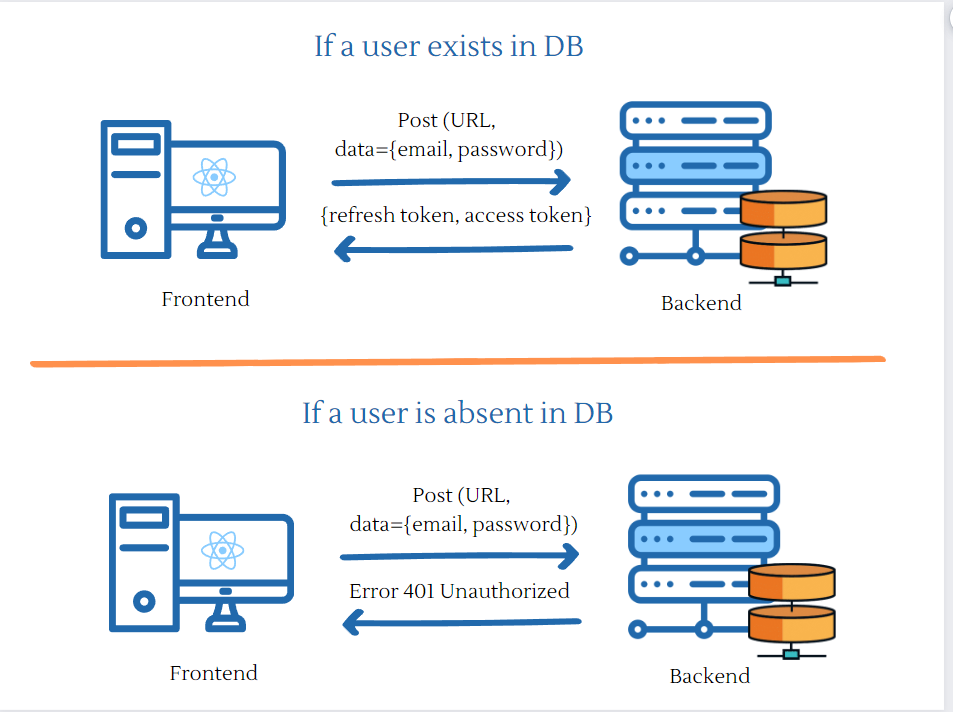
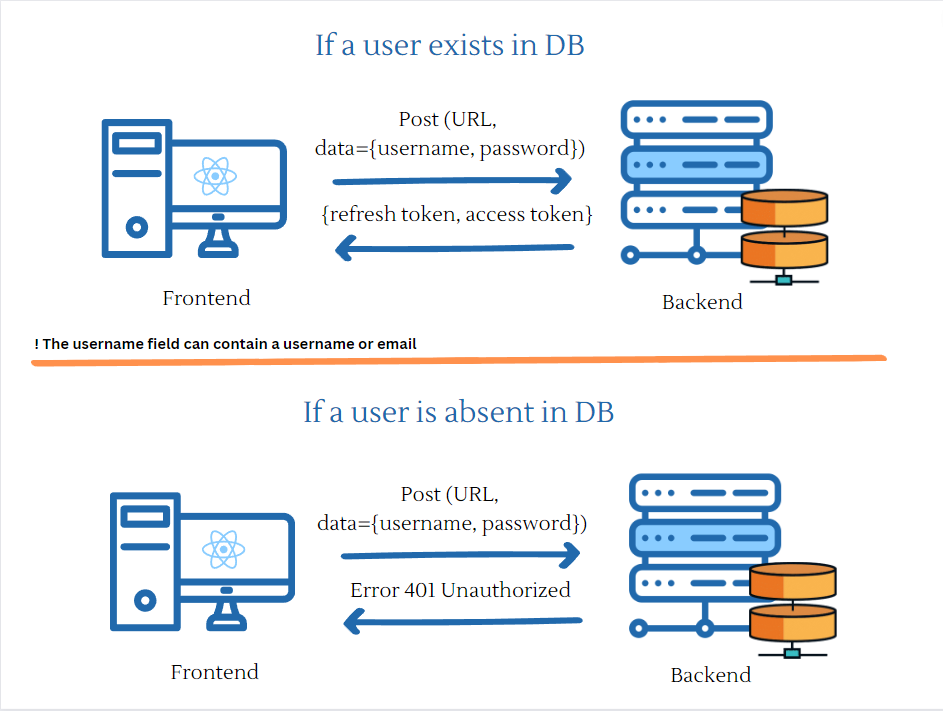
Rewrote authentication, added documentation

diff --git a/backend/accounts/admin.py b/backend/accounts/admin.py
@@ -2,37 +2,6 @@ from django.contrib import admin
 
 from .models import EmailConfirmationToken, Profile, User
 
-# class CustomUserAdmin(UserAdmin):
-#     """Define admin model for custom User model without username field.
-#     Without this, the admin panel will look bad"""
-#
-#     fieldsets = (
-#         (None, {"fields": ("username", "email", "password", "is_email_confirmed")}),
-#         # (_("Personal info"), {"fields": ("first_name", "last_name")}),
-#         (_("Permissions"), {"fields": ("is_active", "is_staff", "is_superuser", "groups", "user_permissions")}),
-#         (_("Important dates"), {"fields": ("last_login", "date_joined")}),
-#     )
-#     add_fieldsets = (
-#         (
-#             None,
-#             {
-#                 "classes": ("wide",),
-#                 "fields": ("username", "email", "password1", "password2"),
-#             },
-#         ),
-#     )
-#     list_display = ("username", "email", "first_name", "is_email_confirmed", "last_name", "is_staff")
-#     search_fields = ("email",)
-#     ordering = ("email",)
-
-
-class ProfileInline(admin.StackedInline):
-    model = Profile
-    can_delete = False
-    verbose_name_plural = "Profile"
-
-
-# admin.site.register(get_user_model(), CustomUserAdmin)
 admin.site.register(User)
 admin.site.register(EmailConfirmationToken)
 admin.site.register(Profile)

diff --git a/backend/accounts/authentication_backend.py b/backend/accounts/authentication_backend.py
@@ -1,0 +1,42 @@
+from django.db.models import Q
+
+from .models import User
+
+
+class AuthBackend(object):
+    """
+    Custom authentication backend.
+    Allows users to login by email or username.
+    """
+
+    supports_object_permissions = True
+    supports_anonymous_user = False
+    # supports_inactive_user = False
+
+    def get_user(self, user_id):
+        """
+        Overrides the get_user method to allow users to login by email or username.
+        """
+
+        try:
+            return User.objects.get(pk=user_id)
+        except User.DoesNotExist:
+            return None
+
+    def authenticate(self, request, username, password):
+        """
+        Overrides the authenticate method to allow users to login by email or username.
+        """
+
+        try:
+            user = User.objects.get(Q(username=username) | Q(email=username))
+            print(user)
+
+        except User.DoesNotExist:
+            return None
+
+        if user.check_password(password):
+            return user
+
+        else:
+            return None

diff --git a/backend/accounts/models.py b/backend/accounts/models.py
@@ -38,7 +38,7 @@ class User(AbstractUser, PermissionsMixin):
     objects = UserManager()
 
     # for default authentication
-    USERNAME_FIELD = "email"
+    USERNAME_FIELD = "username"
     REQUIRED_FIELDS = []
 
     class Meta:
@@ -74,7 +74,7 @@ class Profile(models.Model):
     """User profile"""
 
     user = models.OneToOneField(settings.AUTH_USER_MODEL, on_delete=models.CASCADE)
-    avatar = models.ImageField(upload_to=get_image_filename, blank=True)
+    avatar = models.ImageField(upload_to=get_image_filename, null=True)
 
     def __str__(self):
         return self.user.email

diff --git a/backend/accounts/migrations/0002_alter_profile_avatar.py b/backend/accounts/migrations/0002_alter_profile_avatar.py
@@ -1,0 +1,18 @@
+# Generated by Django 4.2.2 on 2023-07-01 15:26
+
+import accounts.models
+from django.db import migrations, models
+
+
+class Migration(migrations.Migration):
+    dependencies = [
+        ("accounts", "0001_initial"),
+    ]
+
+    operations = [
+        migrations.AlterField(
+            model_name="profile",
+            name="avatar",
+            field=models.ImageField(null=True, upload_to=accounts.models.get_image_filename),
+        ),
+    ]

diff --git a/backend/config/settings.py b/backend/config/settings.py
@@ -36,6 +36,7 @@ ALLOWED_HOSTS = ["*"]
 CORS_ORIGIN_ALLOW_ALL = True
 
 AUTH_USER_MODEL = "accounts.User"
+AUTHENTICATION_BACKENDS = ("accounts.authentication_backend.AuthBackend",)
 
 # Application definition
 

diff --git a/backend/accounts/apps.py b/backend/accounts/apps.py
@@ -6,4 +6,4 @@ class AccountsConfig(AppConfig):
     name = "accounts"
 
     def ready(self):
-        pass
+        import accounts.signals

diff --git a/doc/Accounts.md b/doc/Accounts.md
@@ -8,8 +8,9 @@
 
     ```
     URL = "https://prod-chat.duckdns.org/api/register/"
-    data = {"email": "user@gmail.com",
-            "password": "UserPassword"}
+    data = {"username": "userName",
+            "email": "user@gmail.com",
+            "password": "userPassword"}
     response = request.post(URL, data)
     ```
 
@@ -19,9 +20,56 @@
 
         ```
         {
-            "id": 2,
+            "username": "userName",
             "email": "user@gmail.com",
             "is_email_confirmed": false
+        }
+        ```
+
+-   Unsuccessful responses:
+    -   Status code: 400 Bad Request.
+    -   Response body:
+
+        ```
+        {
+            "error": [
+                "This password is too short. It must contain at least 8 characters.",
+                "This password is too common.",
+                "This password is entirely numeric."
+            ]
+        }
+        ```
+
+        ```
+        {
+            "username": [
+                "user with this login already exists."
+            ],
+            "email": [
+                "user with this email already exists."
+            ]
+        }
+        ```
+
+        ```
+        {
+            "username": [
+                "This field is required."
+            ],
+            "email": [
+                "This field is required."
+            ],
+            "password": [
+                "This field is required."
+            ]
+        }
+        ```
+
+        ```
+        {
+            "email": [
+                "Enter a valid email address."
+            ]
         }
         ```
 
@@ -35,12 +83,20 @@
 ![img_1.png](img/login.png)
 
 -   URL: https://prod-chat.duckdns.org/api/token/
--   Request: Post(URL, {email, password}).  
+-   Request: Post(URL, {username, password}).  
+    __The username field can contain a username or email__.  
     Request doesn't require any token in headers.
 
     ```
     URL = "https://prod-chat.duckdns.org/api/token/"
-    data = {"email": "user@gmail.com",
+    data = {"username": "user@gmail.com",
+            "password": "UserPassword"}
+    response = request.post(URL, data)
+    ```
+
+    ```
+    URL = "https://prod-chat.duckdns.org/api/token/"
+    data = {"username": "userName",
             "password": "UserPassword"}
     response = request.post(URL, data)
     ```
@@ -56,6 +112,16 @@
         }
         ```
 
+-   Unsuccessful response:
+    -   Status code: 401 Unauthorized.
+    -   Response body:
+
+        ```
+        {
+            "detail": "No active account found with the given credentials"
+        }
+        ```
+
 -   Additional information:  
     We should save JWT because to authenticate the user in requests that require authentication, the access token key must be included in the Authorization HTTP header. The access token must be prefixed with the string literal "Bearer", with spaces separating the two strings.
 
@@ -64,15 +130,30 @@
     headers = {"Authorization": "Bearer " + access_token}
     ```
 
--   The access token expires after 1 day.
--   The refresh token expires after 10 day.
--   We can easily persist users between refreshes and login without any credentials. Whenever a token expires or a user refreshes we can get a new access token by sending a request to refresh token.
+    -   The access token expires after 1 day.
+    -   The refresh token expires after 10 day.
+    -   We can easily persist users between refreshes and login without any credentials. Whenever a token expires or a user refreshes we can get a new access token by sending a request to refresh token.
+    -   If you send the wrong access token, when a token is needed, you get the following error with Status code 401 Unauthorized:
+
+        ```
+        {
+            "detail": "Given token not valid for any token type",
+            "code": "token_not_valid",
+            "messages": [
+                 {
+                    "token_class": "AccessToken",
+                    "token_type": "access",
+                     "message": "Token is invalid or expired"
+                }
+            ]
+        }
+        ```
 
 ## Refresh token
 ![img_1.png](img/refresh.png)
 -   URL: https://prod-chat.duckdns.org/api/token/refresh/
 -   Request: Post({"refresh": "eyJhbGciOiJ..."}).  
-    Request doesn't require any token in headers. Request requires refresh token in data.
+    Request doesn't require any token in headers. __Request requires refresh token in data__.
 
     ```
     URL = "https://prod-chat.duckdns.org/api/token/refresh/"
@@ -90,8 +171,19 @@
         }
         ```
 
+-   Unsuccessful response:
+    -   Status code: 401 Unauthorized.
+    -   Response body:
+
+        ```
+        {
+            "detail": "Token is invalid or expired",
+            "code": "token_not_valid"
+        }
+        ```
+
 ## Get the current user info
-![img.png](img/get_data.png)
+![img.png](img/get_user.png)
 -   URL: https://prod-chat.duckdns.org/api/user/
 -   Request: Get(URL, headers={"Authorization": "Bearer " + access_token}).  
     Request requires access token in headers.
@@ -108,25 +200,20 @@
 
         ```
         {
-            "id": 5,
+            "username": "userName",
             "email": "user@gmail.com",
             "is_email_confirmed": false/true
         }
         ```
 
-## Set/Get user nickname
--   URL: https://prod-chat.duckdns.org/api/profile/
--   Requests:
-    -   Get(URL, headers={"Authorization": "Bearer " + access_token})
-    -   Put(URL, headers={"Authorization": "Bearer " + access_token}, data={"nickname": "user_nickname"})
-    -   Patch(URL, headers={"Authorization": "Bearer " + access_token}, data={"nickname": "user_nickname"})
--   Successful response:
-    -   Status code: 200.
+-   Unsuccessful response:
+    -   Status code: 401 Unauthorized.
     -   Response body:
 
         ```
         {
-           "nickname": "user_nickname"
+            "detail": "Authorization header must contain two space-delimited values",
+            "code": "bad_authorization_header"
         }
         ```
 
@@ -144,4 +231,16 @@
          {
             "avatar": "https://prod-chat.duckdns.org/media/avatars/dog2jpg-dog2.jpg"
          }
+        ```
+
+-   Unsuccessful response:
+    -   Status code: 400 Bad Request.
+    -   Response body:
+
+        ```
+        {
+            "avatar": [
+            "Upload a valid image. The file you uploaded was either not an image or a corrupted image."
+            ]
+        }
         ```
